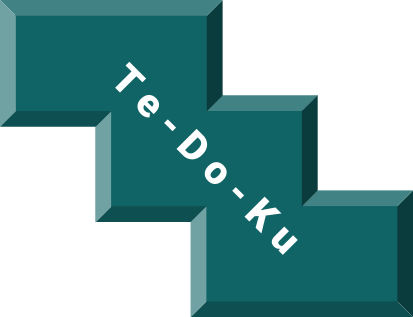
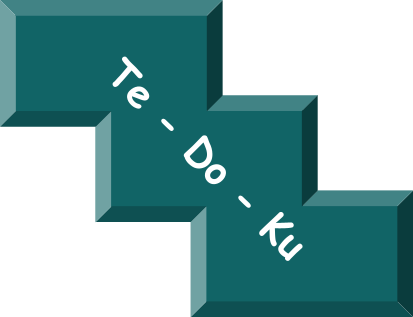
main page pictures eddited

diff --git a/assets/scripts/index.js b/assets/scripts/index.js
@@ -2,23 +2,26 @@
 
 //  main Js file for index.html page
 
-// reviel ections
-// const allSections = document.querySelectorAll(".section");
+// reviel sections
+const allSections = document.querySelectorAll(".section");
 
-// function revealSection(entries, observer) {
-//   const [entry] = entries;
-//   console.log(entry);
+function revealSection(entries, observer) {
+  console.log(entries);
+  const [entry] = entries;
+  console.log(entry);
 
-//   entry.target.classList.remove("section-hidden");
-//   observer.unobserve(entry.target);
-// }
+  if (entry.isIntersecting) {
+    entry.target.classList.remove("section-hidden");
+    observer.unobserve(entry.target);
+  }
+}
 
-// const sectionObserver = new IntersectionObserver(revealSection, {
-//   root: null,
-//   threshold: 0.15,
-// });
+const sectionObserver = new IntersectionObserver(revealSection, {
+  root: null,
+  threshold: [1, 0.15, 0.3, 0.45],
+});
 
-// allSections.forEach(function (section) {
-//   section.classList.add("section-hidden");
-//   sectionObserver.observe(section);
-// });
+allSections.forEach(function (section) {
+  section.classList.add("section-hidden");
+  sectionObserver.observe(section);
+});

diff --git a/game.html b/game.html
@@ -85,10 +85,10 @@
               </div>
             </div>
             <div id="game-icons">
-              <button onclick="rotateShape(3)" class="game-icon highlighted-square" id="rotate-left">
+              <button onclick="rotateGameShapes(3)" class="game-icon highlighted-square" id="rotate-left">
                 <i class="fa-solid fa-rotate-left"></i>
               </button>
-              <button onclick="rotateShape(1)" class="game-icon highlighted-square" id="rotate-right">
+              <button onclick="rotateGameShapes(1)" class="game-icon highlighted-square" id="rotate-right">
                 <i class="fa-solid fa-rotate-right"></i>
               </button>
             </div>

diff --git a/assets/scripts/game-shapes.js b/assets/scripts/game-shapes.js
@@ -274,3 +274,8 @@ function arrayFromHTML(htmlColection) {
   }
   return matrix;
 }
+
+function rotateGameShapes(rotationDirection) {
+  // rotation direction is pushed as a number 1 is for clockwise rotation, 3 is for anticlockwise.
+  // this is because function rotateShape(array, timesToFlip) rotation of 3 times becomes anticlickwose turn
+}
